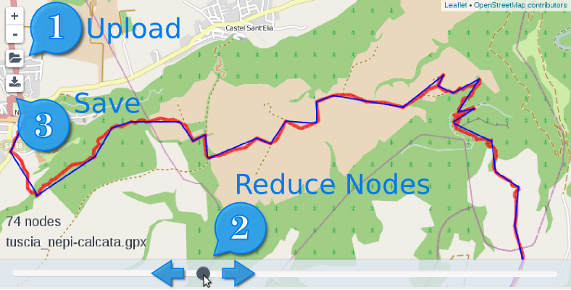
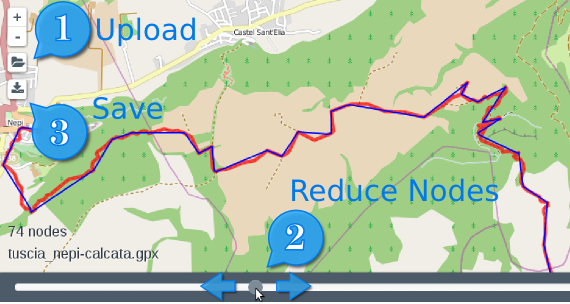
help image

diff --git a/dist/style.min.css b/dist/style.min.css
@@ -3,4 +3,4 @@
  *
  * Licensed under the Apache License v2.0
  *
- */.slider{display:inline-block;vertical-align:middle;position:relative}.slider.slider-horizontal{width:210px;height:20px}.slider.slider-horizontal .slider-track{height:10px;width:100%;margin-top:-5px;top:50%;left:0}.slider.slider-horizontal .slider-selection{height:100%;top:0;bottom:0}.slider.slider-horizontal .slider-handle{margin-left:-10px;margin-top:-5px}.slider.slider-horizontal .slider-handle.triangle{border-width:0 10px 10px;width:0;height:0;border-bottom-color:#0480be;margin-top:0}.slider.slider-vertical{height:210px;width:20px}.slider.slider-vertical .slider-track{width:10px;height:100%;margin-left:-5px;left:50%;top:0}.slider.slider-vertical .slider-selection{width:100%;left:0;top:0;bottom:0}.slider.slider-vertical .slider-handle{margin-left:-5px;margin-top:-10px}.slider.slider-vertical .slider-handle.triangle{border-width:10px 0 10px 10px;width:1px;height:1px;border-left-color:#0480be;margin-left:0}.slider.slider-disabled .slider-handle{background-image:-webkit-linear-gradient(top,#dfdfdf 0,#bebebe 100%);background-image:linear-gradient(to bottom,#dfdfdf 0,#bebebe 100%);background-repeat:repeat-x;filter:progid:DXImageTransform.Microsoft.gradient(startColorstr='#ffdfdfdf', endColorstr='#ffbebebe', GradientType=0)}.slider.slider-disabled .slider-track{background-image:-webkit-linear-gradient(top,#e5e5e5 0,#e9e9e9 100%);background-image:linear-gradient(to bottom,#e5e5e5 0,#e9e9e9 100%);background-repeat:repeat-x;filter:progid:DXImageTransform.Microsoft.gradient(startColorstr='#ffe5e5e5', endColorstr='#ffe9e9e9', GradientType=0);cursor:not-allowed}.slider input{display:none}.slider .tooltip-inner{white-space:nowrap}.slider-track{position:absolute;cursor:pointer;background-image:-webkit-linear-gradient(top,#f5f5f5 0,#f9f9f9 100%);background-image:linear-gradient(to bottom,#f5f5f5 0,#f9f9f9 100%);background-repeat:repeat-x;filter:progid:DXImageTransform.Microsoft.gradient(startColorstr='#fff5f5f5', endColorstr='#fff9f9f9', GradientType=0);-webkit-box-shadow:inset 0 1px 2px rgba(0,0,0,.1);box-shadow:inset 0 1px 2px rgba(0,0,0,.1);border-radius:4px}.slider-selection{position:absolute;background-image:-webkit-linear-gradient(top,#f9f9f9 0,#f5f5f5 100%);background-image:linear-gradient(to bottom,#f9f9f9 0,#f5f5f5 100%);background-repeat:repeat-x;filter:progid:DXImageTransform.Microsoft.gradient(startColorstr='#fff9f9f9', endColorstr='#fff5f5f5', GradientType=0);-webkit-box-shadow:inset 0 -1px 0 rgba(0,0,0,.15);box-shadow:inset 0 -1px 0 rgba(0,0,0,.15);-webkit-box-sizing:border-box;-moz-box-sizing:border-box;box-sizing:border-box;border-radius:4px}.slider-handle{position:absolute;width:20px;height:20px;background-color:#3a94a5;background-image:-webkit-linear-gradient(top,#149bdf 0,#0480be 100%);background-image:linear-gradient(to bottom,#149bdf 0,#0480be 100%);background-repeat:repeat-x;filter:progid:DXImageTransform.Microsoft.gradient(startColorstr='#ff149bdf', endColorstr='#ff0480be', GradientType=0);filter:none;-webkit-box-shadow:inset 0 1px 0 rgba(255,255,255,.2),0 1px 2px rgba(0,0,0,.05);box-shadow:inset 0 1px 0 rgba(255,255,255,.2),0 1px 2px rgba(0,0,0,.05);opacity:.8;border:0 solid transparent}.slider-handle.round{border-radius:50%}.slider-handle.triangle{background:transparent none}.leaflet-sidebar{position:absolute;height:100%;-webkit-box-sizing:border-box;-moz-box-sizing:border-box;box-sizing:border-box;padding:10px;z-index:2000}.leaflet-sidebar.left{left:-500px;transition:left .5s,width .5s;padding-right:0}.leaflet-sidebar.left.visible{left:0}.leaflet-sidebar.right{right:-500px;transition:right .5s,width .5s;padding-left:0}.leaflet-sidebar.right.visible{right:0}.leaflet-sidebar>.leaflet-control{height:100%;width:100%;overflow:auto;-webkit-overflow-scrolling:touch;-webkit-box-sizing:border-box;-moz-box-sizing:border-box;box-sizing:border-box;padding:8px 24px;font-size:1.1em;background:#fff;box-shadow:0 1px 7px rgba(0,0,0,.65);-webkit-border-radius:4px;border-radius:4px}.leaflet-touch .leaflet-sidebar>.leaflet-control{box-shadow:none;border:2px solid rgba(0,0,0,.2);background-clip:padding-box}@media (max-width:767px){.leaflet-sidebar{width:100%;padding:0}.leaflet-sidebar.left.visible~.leaflet-left{left:100%}.leaflet-sidebar.right.visible~.leaflet-right{right:100%}.leaflet-sidebar.left{left:-100%}.leaflet-sidebar.left.visible{left:0}.leaflet-sidebar.right{right:-100%}.leaflet-sidebar.right.visible{right:0}.leaflet-sidebar>.leaflet-control{box-shadow:none;-webkit-border-radius:0;border-radius:0}.leaflet-touch .leaflet-sidebar>.leaflet-control{border:0}}@media (min-width:768px) and (max-width:991px){.leaflet-sidebar{width:305px}.leaflet-sidebar.left.visible~.leaflet-left{left:305px}.leaflet-sidebar.right.visible~.leaflet-right{right:305px}}@media (min-width:992px) and (max-width:1199px){.leaflet-sidebar{width:390px}.leaflet-sidebar.left.visible~.leaflet-left{left:390px}.leaflet-sidebar.right.visible~.leaflet-right{right:390px}}@media (min-width:1200px){.leaflet-sidebar{width:460px}.leaflet-sidebar.left.visible~.leaflet-left{left:460px}.leaflet-sidebar.right.visible~.leaflet-right{right:460px}}.leaflet-sidebar .close{position:absolute;right:20px;top:20px;width:31px;height:31px;color:#333;font-size:25pt;line-height:1em;text-align:center;background:#fff;-webkit-border-radius:16px;border-radius:16px;cursor:pointer;z-index:8}.leaflet-left{transition:left .5s}.leaflet-right{transition:right .5s}body{color:#eee;background:#4D5B69}h4{float:left;margin:5px 20px 5px 10px}#map{position:absolute;top:30px;bottom:0;left:0;right:0;background:rgba(220,230,240,1);-webkit-touch-callout:none;-webkit-user-select:none;-khtml-user-select:none;-moz-user-select:none;-ms-user-select:none;user-select:none}.leaflet-control-zoom.leaflet-bar a{color:#4D5B69}.leaflet-control-down.leaflet-bar a:first-child,.leaflet-control-filelayer.leaflet-bar a:first-child{background:#fff;border-radius:4px;border-radius:4px;font-size:18px;color:#4D5B69}.leaflet-control-stats{color:#323C45;font-size:20px;text-shadow:1px 1px 2px #fff}.leaflet-left.leaflet-bottom .leaflet-control-slider{margin:0}.leaflet-control-slider{background:rgba(220,230,240,.8);box-shadow:0 1px 5px rgba(0,0,0,.65);width:100%;padding:10px 20px}.slider-handle{opacity:1;background:#4D5B69}.leaflet-sidebar{height:auto;bottom:40px;top:5px}.leaflet-sidebar a.close{opacity:1;top:1px;right:auto;left:-10px;font-size:20pt;height:23px;width:23px;background:rgba(220,230,240,1);box-shadow:0 1px 3px rgba(0,0,0,.65);color:#4D5B69}#sidebar{padding:8px;overflow-y:auto;background:rgba(220,230,240,1);color:#4D5B69;box-shadow:0 1px 4px rgba(0,0,0,.6)}#modal{z-index:2000}.modal-content{border:2px solid #eee;border-radius:0}.modal-header{background:#4D5B69;color:#fff;font-weight:700}.modal-header .close{font-size:2.5em;line-height:1.2em;text-shadow:none;color:#fff;opacity:1}.modal-body{padding:12px;text-align:center}#credits .list-group-item.active{color:#fff;background:#4D5B69}#social{position:fixed;z-index:800;right:220px;top:0;padding:4px}#social .fb-like{line-height:12px}#copy{position:fixed;z-index:1000;right:30px;top:-8px;padding:8px 8px 2px;background:#424b54;border-radius:.7em;opacity:.8;box-shadow:0 0 8px #eee;color:#eee}#copy a{color:#ccc;text-decoration:none}#copy a:hover{color:#fff}#ribbon{position:absolute;top:0;right:0;border:0;opacity:.8}
+ */.slider{display:inline-block;vertical-align:middle;position:relative}.slider.slider-horizontal{width:210px;height:20px}.slider.slider-horizontal .slider-track{height:10px;width:100%;margin-top:-5px;top:50%;left:0}.slider.slider-horizontal .slider-selection{height:100%;top:0;bottom:0}.slider.slider-horizontal .slider-handle{margin-left:-10px;margin-top:-5px}.slider.slider-horizontal .slider-handle.triangle{border-width:0 10px 10px;width:0;height:0;border-bottom-color:#0480be;margin-top:0}.slider.slider-vertical{height:210px;width:20px}.slider.slider-vertical .slider-track{width:10px;height:100%;margin-left:-5px;left:50%;top:0}.slider.slider-vertical .slider-selection{width:100%;left:0;top:0;bottom:0}.slider.slider-vertical .slider-handle{margin-left:-5px;margin-top:-10px}.slider.slider-vertical .slider-handle.triangle{border-width:10px 0 10px 10px;width:1px;height:1px;border-left-color:#0480be;margin-left:0}.slider.slider-disabled .slider-handle{background-image:-webkit-linear-gradient(top,#dfdfdf 0,#bebebe 100%);background-image:linear-gradient(to bottom,#dfdfdf 0,#bebebe 100%);background-repeat:repeat-x;filter:progid:DXImageTransform.Microsoft.gradient(startColorstr='#ffdfdfdf', endColorstr='#ffbebebe', GradientType=0)}.slider.slider-disabled .slider-track{background-image:-webkit-linear-gradient(top,#e5e5e5 0,#e9e9e9 100%);background-image:linear-gradient(to bottom,#e5e5e5 0,#e9e9e9 100%);background-repeat:repeat-x;filter:progid:DXImageTransform.Microsoft.gradient(startColorstr='#ffe5e5e5', endColorstr='#ffe9e9e9', GradientType=0);cursor:not-allowed}.slider input{display:none}.slider .tooltip-inner{white-space:nowrap}.slider-track{position:absolute;cursor:pointer;background-image:-webkit-linear-gradient(top,#f5f5f5 0,#f9f9f9 100%);background-image:linear-gradient(to bottom,#f5f5f5 0,#f9f9f9 100%);background-repeat:repeat-x;filter:progid:DXImageTransform.Microsoft.gradient(startColorstr='#fff5f5f5', endColorstr='#fff9f9f9', GradientType=0);-webkit-box-shadow:inset 0 1px 2px rgba(0,0,0,.1);box-shadow:inset 0 1px 2px rgba(0,0,0,.1);border-radius:4px}.slider-selection{position:absolute;background-image:-webkit-linear-gradient(top,#f9f9f9 0,#f5f5f5 100%);background-image:linear-gradient(to bottom,#f9f9f9 0,#f5f5f5 100%);background-repeat:repeat-x;filter:progid:DXImageTransform.Microsoft.gradient(startColorstr='#fff9f9f9', endColorstr='#fff5f5f5', GradientType=0);-webkit-box-shadow:inset 0 -1px 0 rgba(0,0,0,.15);box-shadow:inset 0 -1px 0 rgba(0,0,0,.15);-webkit-box-sizing:border-box;-moz-box-sizing:border-box;box-sizing:border-box;border-radius:4px}.slider-handle{position:absolute;width:20px;height:20px;background-color:#3a94a5;background-image:-webkit-linear-gradient(top,#149bdf 0,#0480be 100%);background-image:linear-gradient(to bottom,#149bdf 0,#0480be 100%);background-repeat:repeat-x;filter:progid:DXImageTransform.Microsoft.gradient(startColorstr='#ff149bdf', endColorstr='#ff0480be', GradientType=0);filter:none;-webkit-box-shadow:inset 0 1px 0 rgba(255,255,255,.2),0 1px 2px rgba(0,0,0,.05);box-shadow:inset 0 1px 0 rgba(255,255,255,.2),0 1px 2px rgba(0,0,0,.05);opacity:.8;border:0 solid transparent}.slider-handle.round{border-radius:50%}.slider-handle.triangle{background:transparent none}.leaflet-sidebar{position:absolute;height:100%;-webkit-box-sizing:border-box;-moz-box-sizing:border-box;box-sizing:border-box;padding:10px;z-index:2000}.leaflet-sidebar.left{left:-500px;transition:left .5s,width .5s;padding-right:0}.leaflet-sidebar.left.visible{left:0}.leaflet-sidebar.right{right:-500px;transition:right .5s,width .5s;padding-left:0}.leaflet-sidebar.right.visible{right:0}.leaflet-sidebar>.leaflet-control{height:100%;width:100%;overflow:auto;-webkit-overflow-scrolling:touch;-webkit-box-sizing:border-box;-moz-box-sizing:border-box;box-sizing:border-box;padding:8px 24px;font-size:1.1em;background:#fff;box-shadow:0 1px 7px rgba(0,0,0,.65);-webkit-border-radius:4px;border-radius:4px}.leaflet-touch .leaflet-sidebar>.leaflet-control{box-shadow:none;border:2px solid rgba(0,0,0,.2);background-clip:padding-box}@media (max-width:767px){.leaflet-sidebar{width:100%;padding:0}.leaflet-sidebar.left.visible~.leaflet-left{left:100%}.leaflet-sidebar.right.visible~.leaflet-right{right:100%}.leaflet-sidebar.left{left:-100%}.leaflet-sidebar.left.visible{left:0}.leaflet-sidebar.right{right:-100%}.leaflet-sidebar.right.visible{right:0}.leaflet-sidebar>.leaflet-control{box-shadow:none;-webkit-border-radius:0;border-radius:0}.leaflet-touch .leaflet-sidebar>.leaflet-control{border:0}}@media (min-width:768px) and (max-width:991px){.leaflet-sidebar{width:305px}.leaflet-sidebar.left.visible~.leaflet-left{left:305px}.leaflet-sidebar.right.visible~.leaflet-right{right:305px}}@media (min-width:992px) and (max-width:1199px){.leaflet-sidebar{width:390px}.leaflet-sidebar.left.visible~.leaflet-left{left:390px}.leaflet-sidebar.right.visible~.leaflet-right{right:390px}}@media (min-width:1200px){.leaflet-sidebar{width:460px}.leaflet-sidebar.left.visible~.leaflet-left{left:460px}.leaflet-sidebar.right.visible~.leaflet-right{right:460px}}.leaflet-sidebar .close{position:absolute;right:20px;top:20px;width:31px;height:31px;color:#333;font-size:25pt;line-height:1em;text-align:center;background:#fff;-webkit-border-radius:16px;border-radius:16px;cursor:pointer;z-index:8}.leaflet-left{transition:left .5s}.leaflet-right{transition:right .5s}body{color:#eee;background:#4D5B69}h4{float:left;padding:5px;margin:5px 20px 5px 10px;text-shadow:1px 1px 3px #333}#helpbtn{color:#eee}#map{position:absolute;top:40px;bottom:0;left:0;right:0;background:rgba(220,230,240,1);-webkit-touch-callout:none;-webkit-user-select:none;-khtml-user-select:none;-moz-user-select:none;-ms-user-select:none;user-select:none}.leaflet-control-zoom.leaflet-bar a{color:#4D5B69}.leaflet-control-down.leaflet-bar a:first-child,.leaflet-control-filelayer.leaflet-bar a:first-child{background:#fff;border-radius:4px;border-radius:4px;font-size:18px;color:#4D5B69}.leaflet-control-stats{color:#323C45;font-size:20px;text-shadow:1px 1px 2px #fff}.leaflet-left.leaflet-bottom .leaflet-control-slider{margin:0}.leaflet-control-slider{background:#4D5B69;box-shadow:0 1px 5px rgba(0,0,0,.65);width:100%;padding:10px 20px}.slider-handle{opacity:1;background:#7D8B99}.leaflet-sidebar{height:auto;bottom:40px;top:5px}.leaflet-sidebar a.close{opacity:1;top:1px;right:auto;left:-10px;font-size:20pt;height:23px;width:23px;background:rgba(220,230,240,1);box-shadow:0 1px 3px rgba(0,0,0,.65);color:#4D5B69}#sidebar{padding:8px;overflow-y:auto;background:rgba(220,230,240,1);color:#4D5B69;box-shadow:0 1px 4px rgba(0,0,0,.6)}#modal{z-index:2000}.modal-content{border:2px solid #eee;border-radius:0}.modal-header{background:#4D5B69;color:#fff;font-weight:700}.modal-header .close{font-size:2.5em;line-height:1.2em;text-shadow:none;color:#fff;opacity:1}.modal-body{padding:12px;text-align:center}#credits .list-group-item.active{color:#fff;background:#4D5B69}#social{position:fixed;z-index:800;right:220px;top:0;padding:4px}#social .fb-like{line-height:12px}#copy{position:fixed;z-index:1000;right:30px;top:-8px;padding:8px 8px 2px;background:#424b54;border-radius:.7em;opacity:.8;box-shadow:0 0 8px #eee;color:#eee}#copy a{color:#ccc;text-decoration:none}#copy a:hover{color:#fff}#ribbon{position:absolute;top:0;right:0;border:0;opacity:.8}

diff --git a/dist/app.min.js b/dist/app.min.js
@@ -24,4 +24,4 @@ var s = document.getElementsByTagName('script')[0]; s.parentNode.insertBefore(po
 !function(d,s,id){
 var js,fjs=d.getElementsByTagName(s)[0],p=/^http:/.test(d.location)?'http':'https';if(!d.getElementById(id)){js=d.createElement(s);js.id=id;js.src=p+'://platform.twitter.com/widgets.js';fjs.parentNode.insertBefore(js,fjs);}
 }(document, 'script', 'twitter-wjs');;
-$(function(){function a(a){if(h){l.clearLayers(),i=0,layer=h.getLayers()[0];var b=layer.toGeoJSON();b.geometry.coordinates=simplifyGeometry(b.geometry.coordinates,a),l.addData(b),k=b,i+=b.geometry.coordinates.length,g.text(i)}}function b(){try{if(new Blob){var a=togpx(k),b=new Blob([a],{type:"text/plain;charset=utf-8"});saveAs(b,j+"_"+i+"nodes.gpx")}}catch(c){return alert("For download gpx file using Chrome or Firefox"),!1}}var c=new L.Map("map",{attributionControl:!1}).setView(L.latLng(36,-30),3),d={color:"red",opacity:.7,fillOpacity:.7,weight:5,clickable:!1},e={color:"blue",opacity:1,fillOpacity:1,weight:2,clickable:!1};L.tileLayer("http://{s}.tile.openstreetmap.org/{z}/{x}/{y}.png").addTo(c);var f,g,h=null,i=0,j="simplified.gpx",k=null,l=L.geoJson(k,{style:e}).addTo(c);L.Control.FileLayerLoad.LABEL='<i class="fa fa-folder-open"></i>';var m=L.Control.fileLayerLoad({addToMap:!0,fitBounds:!1,fileSizeLimit:8096,layerOptions:{style:d,pointToLayer:function(a,b){return L.circle(b,10,{style:d})}}}).addTo(c);m.loader.on("data:loaded",function(b){h=b.layer,c.fitBounds(h.getBounds()),j=b.filename,a(0),f.html(j),$(".grumble, .grumble-text, .grumble-button").remove(),$(document).unbind("keyup.crumble")}).on("data:error",function(a){console.log("ERROR",a)}),function(){var a=new L.Control({position:"topleft"});return a.onAdd=function(){var a=L.DomUtil.create("div","leaflet-control-down leaflet-bar"),c=L.DomUtil.create("a","",a);return c.href="#",c.target="_blank",c.title="Download simplified GPX file",c.innerHTML='<i class="fa fa-download"></i>',L.DomEvent.on(c,"click",L.DomEvent.stop).on(c,"click",b),a},a}().addTo(c),function(){var b=new L.Control({position:"bottomleft"});return b.onAdd=function(b){var c=L.DomUtil.create("div","leaflet-control-slider"),d=L.DomUtil.create("input","input-slider",c);d.type="text";var e=$(d).slider({value:0,min:0,max:.002,step:5e-5,precision:8,tooltip:"hide"}).on("slide",function(b){b.preventDefault(),b.stopPropagation(),a(b.value)}).on("slideStart",function(a){a.preventDefault(),a.stopPropagation()});return L.DomEvent.disableClickPropagation(c),e.parent().width(b.getSize().x-40),b.on("resize",function(a){e.parent().width(a.newSize.x-40)}),c},b}().addTo(c),function(){var a=new L.Control({position:"bottomleft"});return a.onAdd=function(){var a=L.DomUtil.create("div","leaflet-control-stats");return a.id="stats",a.innerHTML='<span id="nodes"></span> nodes<br /><span id="filename"></span>',f=$("#filename",a),g=$("#nodes",a),a},a}().addTo(c),L.control.sidebar("sidebar",{position:"right",autoPan:!1}).addTo(c).show(),L.control.attribution({position:"topright",prefix:'<a href="http://leafletjs.com/">Leaflet</a> &bull; <a href="http://osm.org/" target="_blank">OpenStreetMap contributors</a>'}).addTo(c);var n=$.cookie("tour");(!n||parseInt(n)<3)&&($("#modal").modal("show"),n=(parseInt(n)||0)+1,$.cookie("tour",n,{expires:120}))});
+$(function(){function a(a){if(h){l.clearLayers(),i=0,layer=h.getLayers()[0];var b=layer.toGeoJSON();b.geometry.coordinates=simplifyGeometry(b.geometry.coordinates,a),l.addData(b),k=b,i+=b.geometry.coordinates.length,g.text(i)}}function b(){try{if(new Blob){var a=togpx(k),b=new Blob([a],{type:"text/plain;charset=utf-8"});saveAs(b,j+"_"+i+"nodes.gpx")}}catch(c){return alert("For download gpx file using Chrome or Firefox"),!1}}var c=new L.Map("map",{attributionControl:!1}).setView(L.latLng(36,-30),3),d={color:"red",opacity:.7,fillOpacity:.7,weight:5,clickable:!1},e={color:"blue",opacity:1,fillOpacity:1,weight:2,clickable:!1};L.tileLayer("http://{s}.tile.openstreetmap.org/{z}/{x}/{y}.png").addTo(c);var f,g,h=null,i=0,j="simplified.gpx",k=null,l=L.geoJson(k,{style:e}).addTo(c);L.Control.FileLayerLoad.LABEL='<i class="fa fa-folder-open"></i>';var m=L.Control.fileLayerLoad({addToMap:!0,fitBounds:!1,fileSizeLimit:8096,layerOptions:{style:d,pointToLayer:function(a,b){return L.circle(b,10,{style:d})}}}).addTo(c);m.loader.on("data:loaded",function(b){h=b.layer,c.fitBounds(h.getBounds()),j=b.filename,a(0),f.html(j),$(".grumble, .grumble-text, .grumble-button").remove(),$(document).unbind("keyup.crumble")}).on("data:error",function(a){console.log("ERROR",a)}),function(){var a=new L.Control({position:"topleft"});return a.onAdd=function(){var a=L.DomUtil.create("div","leaflet-control-down leaflet-bar"),c=L.DomUtil.create("a","",a);return c.href="#",c.target="_blank",c.title="Download simplified GPX file",c.innerHTML='<i class="fa fa-download"></i>',L.DomEvent.on(c,"click",L.DomEvent.stop).on(c,"click",b),a},a}().addTo(c),function(){var b=new L.Control({position:"bottomleft"});return b.onAdd=function(b){var c=L.DomUtil.create("div","leaflet-control-slider"),d=L.DomUtil.create("input","input-slider",c);d.type="text";var e=$(d).slider({value:0,min:0,max:.002,step:5e-5,precision:8,tooltip:"hide"}).on("slide",function(b){b.preventDefault(),b.stopPropagation(),a(b.value)}).on("slideStart",function(a){a.preventDefault(),a.stopPropagation()});return L.DomEvent.disableClickPropagation(c),e.parent().width(b.getSize().x-40),b.on("resize",function(a){e.parent().width(a.newSize.x-40)}),c},b}().addTo(c),function(){var a=new L.Control({position:"bottomleft"});return a.onAdd=function(){var a=L.DomUtil.create("div","leaflet-control-stats");return a.id="stats",a.innerHTML='<span id="nodes"></span> nodes<br /><span id="filename"></span>',f=$("#filename",a),g=$("#nodes",a),a},a}().addTo(c),L.control.sidebar("sidebar",{position:"right",autoPan:!1}).addTo(c).show(),L.control.attribution({position:"topright",prefix:'<a href="http://leafletjs.com/">Leaflet</a> &bull; <a href="http://osm.org/" target="_blank">OpenStreetMap contributors</a>'}).addTo(c),$("#helpbtn").on("click",function(){$("#modal").modal("show")});var n=$.cookie("tour");(!n||parseInt(n)<3)&&($("#modal").modal("show"),n=(parseInt(n)||0)+1,$.cookie("tour",n,{expires:120}))});

diff --git a/dist/main.min.js b/dist/main.min.js
@@ -1,1 +1,1 @@
-$(function(){function a(a){if(h){l.clearLayers(),i=0,layer=h.getLayers()[0];var b=layer.toGeoJSON();b.geometry.coordinates=simplifyGeometry(b.geometry.coordinates,a),l.addData(b),k=b,i+=b.geometry.coordinates.length,g.text(i)}}function b(){try{if(new Blob){var a=togpx(k),b=new Blob([a],{type:"text/plain;charset=utf-8"});saveAs(b,j+"_"+i+"nodes.gpx")}}catch(c){return alert("For download gpx file using Chrome or Firefox"),!1}}var c=new L.Map("map",{attributionControl:!1}).setView(L.latLng(36,-30),3),d={color:"red",opacity:.7,fillOpacity:.7,weight:5,clickable:!1},e={color:"blue",opacity:1,fillOpacity:1,weight:2,clickable:!1};L.tileLayer("http://{s}.tile.openstreetmap.org/{z}/{x}/{y}.png").addTo(c);var f,g,h=null,i=0,j="simplified.gpx",k=null,l=L.geoJson(k,{style:e}).addTo(c);L.Control.FileLayerLoad.LABEL='<i class="fa fa-folder-open"></i>';var m=L.Control.fileLayerLoad({addToMap:!0,fitBounds:!1,fileSizeLimit:8096,layerOptions:{style:d,pointToLayer:function(a,b){return L.circle(b,10,{style:d})}}}).addTo(c);m.loader.on("data:loaded",function(b){h=b.layer,c.fitBounds(h.getBounds()),j=b.filename,a(0),f.html(j),$(".grumble, .grumble-text, .grumble-button").remove(),$(document).unbind("keyup.crumble")}).on("data:error",function(a){console.log("ERROR",a)}),function(){var a=new L.Control({position:"topleft"});return a.onAdd=function(){var a=L.DomUtil.create("div","leaflet-control-down leaflet-bar"),c=L.DomUtil.create("a","",a);return c.href="#",c.target="_blank",c.title="Download simplified GPX file",c.innerHTML='<i class="fa fa-download"></i>',L.DomEvent.on(c,"click",L.DomEvent.stop).on(c,"click",b),a},a}().addTo(c),function(){var b=new L.Control({position:"bottomleft"});return b.onAdd=function(b){var c=L.DomUtil.create("div","leaflet-control-slider"),d=L.DomUtil.create("input","input-slider",c);d.type="text";var e=$(d).slider({value:0,min:0,max:.002,step:5e-5,precision:8,tooltip:"hide"}).on("slide",function(b){b.preventDefault(),b.stopPropagation(),a(b.value)}).on("slideStart",function(a){a.preventDefault(),a.stopPropagation()});return L.DomEvent.disableClickPropagation(c),e.parent().width(b.getSize().x-40),b.on("resize",function(a){e.parent().width(a.newSize.x-40)}),c},b}().addTo(c),function(){var a=new L.Control({position:"bottomleft"});return a.onAdd=function(){var a=L.DomUtil.create("div","leaflet-control-stats");return a.id="stats",a.innerHTML='<span id="nodes"></span> nodes<br /><span id="filename"></span>',f=$("#filename",a),g=$("#nodes",a),a},a}().addTo(c),L.control.sidebar("sidebar",{position:"right",autoPan:!1}).addTo(c).show(),L.control.attribution({position:"topright",prefix:'<a href="http://leafletjs.com/">Leaflet</a> &bull; <a href="http://osm.org/" target="_blank">OpenStreetMap contributors</a>'}).addTo(c);var n=$.cookie("tour");(!n||parseInt(n)<3)&&($("#modal").modal("show"),n=(parseInt(n)||0)+1,$.cookie("tour",n,{expires:120}))});
+$(function(){function a(a){if(h){l.clearLayers(),i=0,layer=h.getLayers()[0];var b=layer.toGeoJSON();b.geometry.coordinates=simplifyGeometry(b.geometry.coordinates,a),l.addData(b),k=b,i+=b.geometry.coordinates.length,g.text(i)}}function b(){try{if(new Blob){var a=togpx(k),b=new Blob([a],{type:"text/plain;charset=utf-8"});saveAs(b,j+"_"+i+"nodes.gpx")}}catch(c){return alert("For download gpx file using Chrome or Firefox"),!1}}var c=new L.Map("map",{attributionControl:!1}).setView(L.latLng(36,-30),3),d={color:"red",opacity:.7,fillOpacity:.7,weight:5,clickable:!1},e={color:"blue",opacity:1,fillOpacity:1,weight:2,clickable:!1};L.tileLayer("http://{s}.tile.openstreetmap.org/{z}/{x}/{y}.png").addTo(c);var f,g,h=null,i=0,j="simplified.gpx",k=null,l=L.geoJson(k,{style:e}).addTo(c);L.Control.FileLayerLoad.LABEL='<i class="fa fa-folder-open"></i>';var m=L.Control.fileLayerLoad({addToMap:!0,fitBounds:!1,fileSizeLimit:8096,layerOptions:{style:d,pointToLayer:function(a,b){return L.circle(b,10,{style:d})}}}).addTo(c);m.loader.on("data:loaded",function(b){h=b.layer,c.fitBounds(h.getBounds()),j=b.filename,a(0),f.html(j),$(".grumble, .grumble-text, .grumble-button").remove(),$(document).unbind("keyup.crumble")}).on("data:error",function(a){console.log("ERROR",a)}),function(){var a=new L.Control({position:"topleft"});return a.onAdd=function(){var a=L.DomUtil.create("div","leaflet-control-down leaflet-bar"),c=L.DomUtil.create("a","",a);return c.href="#",c.target="_blank",c.title="Download simplified GPX file",c.innerHTML='<i class="fa fa-download"></i>',L.DomEvent.on(c,"click",L.DomEvent.stop).on(c,"click",b),a},a}().addTo(c),function(){var b=new L.Control({position:"bottomleft"});return b.onAdd=function(b){var c=L.DomUtil.create("div","leaflet-control-slider"),d=L.DomUtil.create("input","input-slider",c);d.type="text";var e=$(d).slider({value:0,min:0,max:.002,step:5e-5,precision:8,tooltip:"hide"}).on("slide",function(b){b.preventDefault(),b.stopPropagation(),a(b.value)}).on("slideStart",function(a){a.preventDefault(),a.stopPropagation()});return L.DomEvent.disableClickPropagation(c),e.parent().width(b.getSize().x-40),b.on("resize",function(a){e.parent().width(a.newSize.x-40)}),c},b}().addTo(c),function(){var a=new L.Control({position:"bottomleft"});return a.onAdd=function(){var a=L.DomUtil.create("div","leaflet-control-stats");return a.id="stats",a.innerHTML='<span id="nodes"></span> nodes<br /><span id="filename"></span>',f=$("#filename",a),g=$("#nodes",a),a},a}().addTo(c),L.control.sidebar("sidebar",{position:"right",autoPan:!1}).addTo(c).show(),L.control.attribution({position:"topright",prefix:'<a href="http://leafletjs.com/">Leaflet</a> &bull; <a href="http://osm.org/" target="_blank">OpenStreetMap contributors</a>'}).addTo(c),$("#helpbtn").on("click",function(){$("#modal").modal("show")});var n=$.cookie("tour");(!n||parseInt(n)<3)&&($("#modal").modal("show"),n=(parseInt(n)||0)+1,$.cookie("tour",n,{expires:120}))});

diff --git a/index.html b/index.html
@@ -13,13 +13,9 @@
 </head>
 
 <body>
-<h4>Tracks Optimizer online</h4>
-<div style="padding:4px">
-	<iframe src="http://ghbtns.com/github-btn.html?user=stefanocudini&amp;repo=gpx-simplify-optimizer&amp;type=watch&amp;count=true" allowtransparency="true" frameborder="0" scrolling="0" width="80px" height="20px"></iframe>
-	<iframe src="http://ghbtns.com/github-btn.html?user=stefanocudini&amp;repo=gpx-simplify-optimizer&amp;type=fork&amp;count=true" allowtransparency="true" frameborder="0" scrolling="0" width="80px" height="20px"></iframe>
-</div>
+<h4>Tracks Optimizer online &nbsp;<a href="#" id="helpbtn"><i class="fa fa-question-circle"></i></a></h4>
 
-<p>Online Simplifier and Optimizer for GPX/KML/GeoJSON tracks.</p>
+<div style="clear:both">Online Simplifier and Optimizer for GPX/KML/GeoJSON tracks.</div>
 
 <div id="map"></div>
 
@@ -39,6 +35,8 @@
 </div>
 
 <div id="social">
+	<iframe src="http://ghbtns.com/github-btn.html?user=stefanocudini&amp;repo=gpx-simplify-optimizer&amp;type=watch&amp;count=true" allowtransparency="true" frameborder="0" scrolling="0" width="80px" height="20px"></iframe>
+	<iframe src="http://ghbtns.com/github-btn.html?user=stefanocudini&amp;repo=gpx-simplify-optimizer&amp;type=fork&amp;count=true" allowtransparency="true" frameborder="0" scrolling="0" width="80px" height="20px"></iframe>
 	<g:plusone size="medium" href="http://labs.easyblog.it/maps/gpx-simplify-optimizer/"></g:plusone>
 	<a href="https://twitter.com/share" class="twitter-share-button" data-url="http://labs.easyblog.it/maps/gpx-simplify-optimizer/" data-text="Mixtags.com" data-via="mixtags" data-hashtags="gpx,track,optimiser,map,gps,leaflet"></a>
 	<div class="fb-like" data-href="http://labs.easyblog.it/maps/gpx-simplify-optimizer/" data-layout="button_count" data-action="like" data-show-faces="false" data-share="false"></div>
@@ -69,10 +67,10 @@
     <div class="modal-content">
       <div class="modal-header">
         <button type="button" class="close" data-dismiss="modal" aria-hidden="true">&times;</button>
-        <h3 class="modal-title">Optimize in 3 steps</h3>
+        <h3 class="modal-title"><i class="fa fa-question-circle"></i> Optimize in 3 steps</h3>
       </div>
       <div class="modal-body">
-        <img src="images/gpx-optimizer.png" />
+        <img style="opacity:0.9" src="images/gpx-optimizer.png" />
       </div>
 <!--       <div class="modal-footer">
         <button type="button" class="btn btn-default" data-dismiss="modal">Close</button>

diff --git a/style.css b/style.css
@@ -4,11 +4,16 @@ body {
 }
 h4 {
 	float: left;
+	padding: 5px;
 	margin: 5px 20px 5px 10px;
+	text-shadow:1px 1px 3px #333;
+}
+#helpbtn {
+	color: #eee;
 }
 #map {
 	position: absolute;
-	top: 30px;
+	top: 40px;
 	bottom: 0;
 	left: 0;
 	right: 0;
@@ -43,14 +48,14 @@ h4 {
 	margin: 0;
 }
 .leaflet-control-slider {
-	background: rgba(220,230,240,0.8);
+	background: #4D5B69;
 	box-shadow: 0 1px 5px rgba(0,0,0,0.65);	
 	width: 100%;
 	padding: 10px 20px;
 }
 .slider-handle {
 	opacity: 1;
-	background: #4D5B69;
+	background: #7D8B99;
 }
 /*.grumble-text .outer {
 	color: #fff;

diff --git a/main.js b/main.js
@@ -171,9 +171,12 @@ L.control.attribution({
 	prefix: '<a href="http://leafletjs.com/">Leaflet</a> &bull; <a href="http://osm.org/" target="_blank">OpenStreetMap contributors</a>',
 }).addTo(map);
 
+$('#helpbtn').on('click',function(e) {
+	$('#modal').modal('show');
+});
+
 //HELP POPUP
 var helpCount = $.cookie('tour');
-
 if(!helpCount || parseInt(helpCount) < 3 )
 {
 	$('#modal').modal('show');
